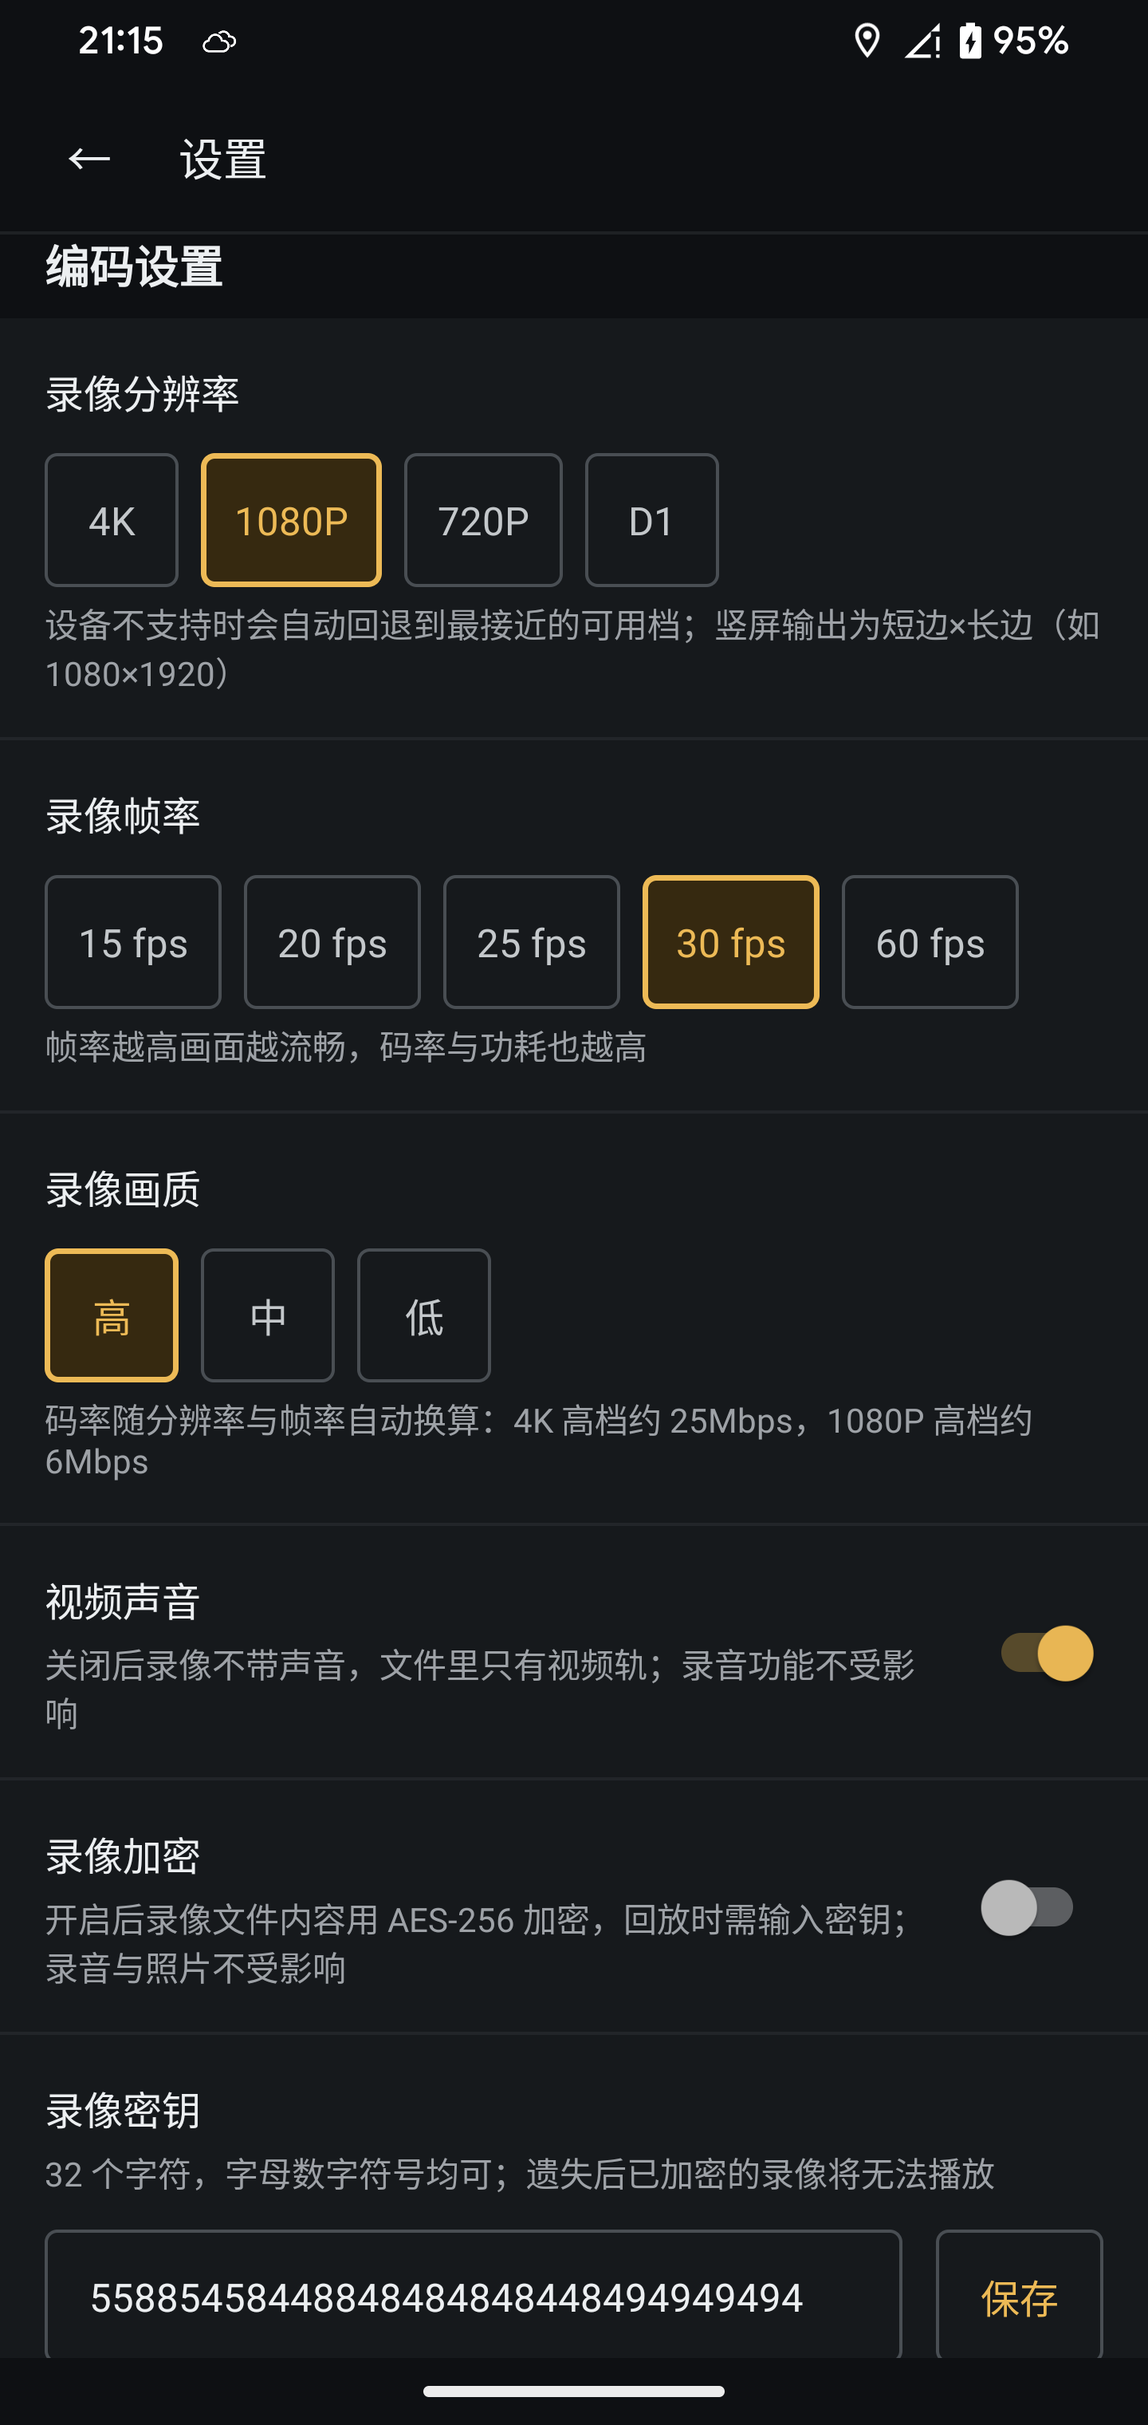
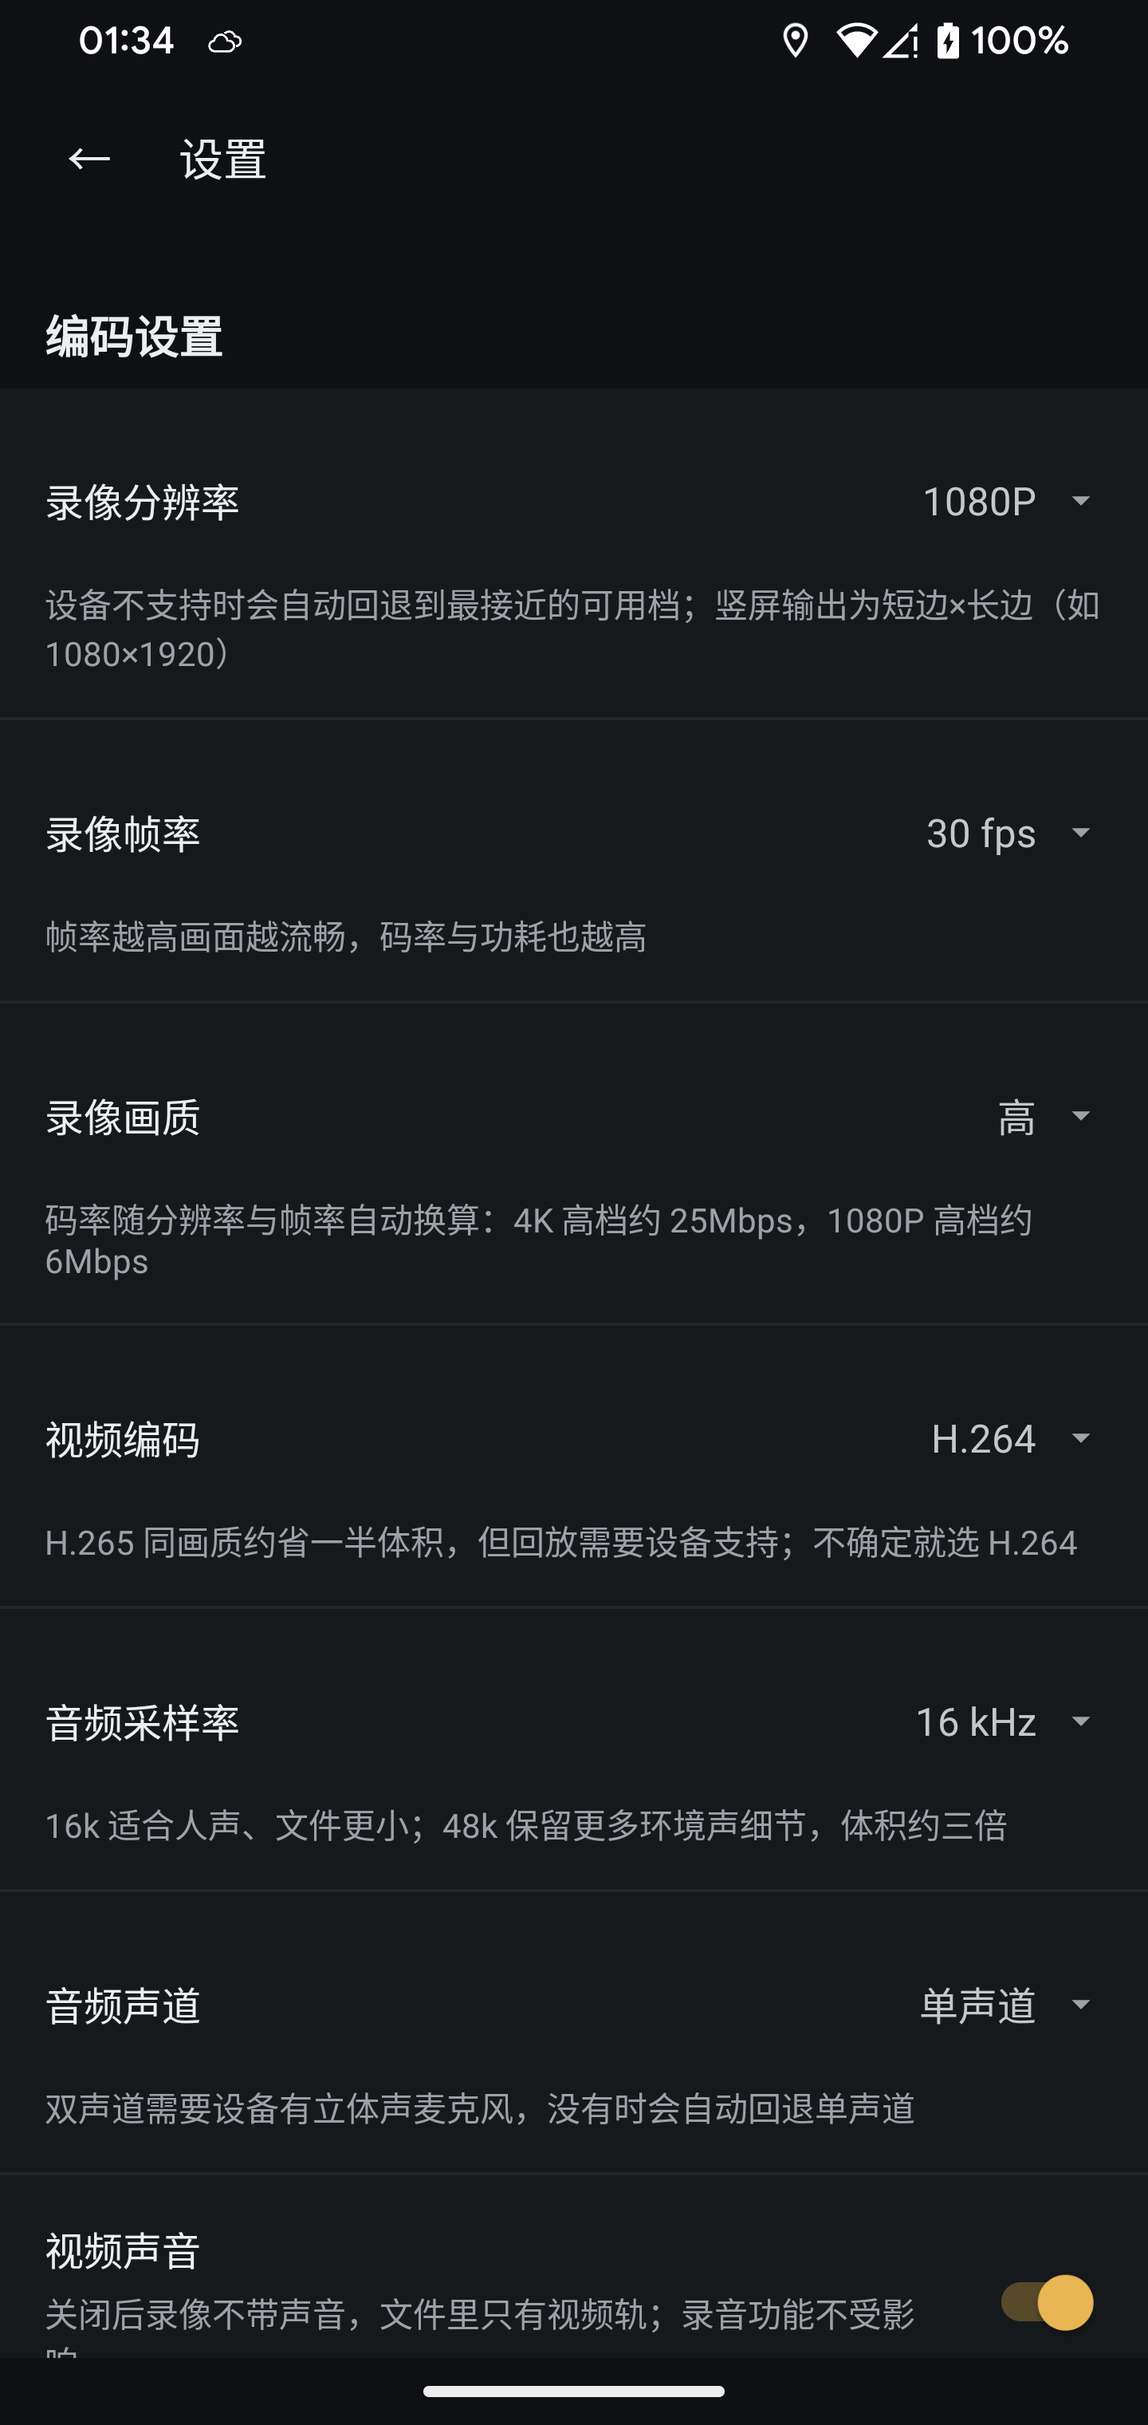
feat(settings): 所有平铺选项改为下拉框
- 标题居左、当前值 + ▾ 居右，点整行弹出候选列表，选中即回写
- bindDropdownRow() 就地改造：复用原标题 TextView、隐藏原容器，
  18 组选项的 XML 与各自持久化逻辑一行没改
- 去掉平铺分段按钮与两行两列网格，每行固定 48dp 可点高度
- 预录关闭时整行仍按原逻辑置灰不可点
- 更新设置页截图与 README 说明

diff --git a/app/src/main/java/com/dsh/bodycam/SettingsActivity.kt b/app/src/main/java/com/dsh/bodycam/SettingsActivity.kt
@@ -2,10 +2,16 @@ package com.dsh.bodycam
 
 import android.app.Activity
 import android.os.Bundle
+import android.text.TextUtils
+import android.util.TypedValue
+import android.view.Gravity
+import android.view.Menu
 import android.view.View
+import android.view.ViewGroup
 import android.widget.EditText
+import android.widget.ImageView
 import android.widget.LinearLayout
-import android.widget.RadioButton
+import android.widget.PopupMenu
 import android.widget.RadioGroup
 import android.widget.Switch
 import android.widget.TextView
@@ -191,16 +197,14 @@ class SettingsActivity : Activity() {
     private fun hintResFor(count: Int, normalRes: Int, unsupportedRes: Int): Int =
         if (count <= 1) unsupportedRes else normalRes
 
+    /** 每行下拉框本体，按原选项容器的 id 索引：updateSections 需要单独置灰某一行 */
+    private val dropdownRowOf = HashMap<Int, View>()
+
     /**
-     * 分段控件：往 [group] 里塞一排可选项。
+     * 分段选项：把「标题 + 一排按钮」就地改造成一行下拉框。
      *
-     * 设置页有六组同类选项（预录时长、补光、模式、质量、尺寸、连拍间隔/张数），
-     * 观感必须一致，所以统一在这里生成：48dp 可点高度、单格宽度随文字、
-     * 选中态由 bg_pre_record_option 的 state_checked 决定。
-     *
-     * @param options 每项的值（tag）与显示文字
-     * @param current 当前选中的值
-     * @param onPick 选中回调，只在该项真的变化时触发
+     * 改造成本集中在 [bindDropdownRow] 一处，设置页 18 组选项的 XML 与各自的
+     * 持久化逻辑都不用动——各 buildXxxOptions() 只是换了个渲染方式。
      */
     private fun <T> buildSegment(
         group: RadioGroup,
@@ -208,39 +212,119 @@ class SettingsActivity : Activity() {
         current: T,
         onPick: (T) -> Unit
     ) {
-        group.orientation = RadioGroup.HORIZONTAL
-        group.removeAllViews()
-        options.forEach { (value, label) ->
-            val rb = RadioButton(this).apply {
-                id = View.generateViewId()
-                text = label
-                textSize = 14f
-                setTextColor(resources.getColorStateList(R.color.pre_record_option_text, theme))
-                setButtonDrawable(null)
-                setBackgroundResource(R.drawable.bg_pre_record_option)
-                minHeight = resources.getDimensionPixelSize(R.dimen.touch_target)
-                minWidth = resources.getDimensionPixelSize(R.dimen.touch_target)
-                gravity = android.view.Gravity.CENTER
-                setPadding(
-                    resources.getDimensionPixelSize(R.dimen.space_sm),
-                    0,
-                    resources.getDimensionPixelSize(R.dimen.space_sm),
-                    0
-                )
-                isChecked = value == current
-                tag = value
-            }
-            val lp = RadioGroup.LayoutParams(
-                RadioGroup.LayoutParams.WRAP_CONTENT,
-                RadioGroup.LayoutParams.WRAP_CONTENT
+        bindDropdownRow(
+            anchor = group,
+            labels = options.map { it.second },
+            selectedIndex = options.indexOfFirst { it.first == current },
+            onPick = { index -> onPick(options[index].first) }
+        )
+    }
+
+    /**
+     * 把 [anchor] 所在的那一行改造成下拉行：标题居左，当前值 + ▾ 居右。
+     *
+     * 标题就是布局里 anchor 前面那个 TextView，直接搬进新行复用（样式、文案不变）；
+     * 原选项容器设为 GONE，只作定位锚点。这样 XML 一行不用改，行内的说明文字
+     * 也仍然排在下拉行下面。
+     *
+     * @param labels        下拉项文案
+     * @param selectedIndex 当前值在 [labels] 中的下标（-1 表示没有匹配，显示空值）
+     * @param onPick        选中回调，参数为下标
+     */
+    private fun bindDropdownRow(
+        anchor: View,
+        labels: List<String>,
+        selectedIndex: Int,
+        onPick: (Int) -> Unit
+    ) {
+        val parent = anchor.parent as? ViewGroup ?: return
+        val anchorIndex = parent.indexOfChild(anchor)
+        val labelView = if (anchorIndex > 0) parent.getChildAt(anchorIndex - 1) as? TextView else null
+        // 标题原本的上下留白要跟着搬到新行（连拍那行的第二组带 marginTop）
+        val topMargin =
+            (labelView?.layoutParams as? ViewGroup.MarginLayoutParams)?.topMargin ?: 0
+
+        var current = selectedIndex
+
+        val valueView = TextView(this).apply {
+            text = labels.getOrElse(current) { "" }
+            setTextColor(getColor(R.color.ink_2))
+            setTextSize(
+                TypedValue.COMPLEX_UNIT_PX,
+                resources.getDimension(R.dimen.text_md)
             )
-            lp.marginEnd = resources.getDimensionPixelSize(R.dimen.space_xs)
-            group.addView(rb, lp)
+            gravity = Gravity.END or Gravity.CENTER_VERTICAL
+            maxLines = 1
+            ellipsize = TextUtils.TruncateAt.END
+            layoutParams = LinearLayout.LayoutParams(
+                0, LinearLayout.LayoutParams.WRAP_CONTENT, 1f
+            ).apply { marginEnd = resources.getDimensionPixelSize(R.dimen.space_xs) }
         }
-        group.setOnCheckedChangeListener { _, checkedId ->
-            val rb = findViewById<RadioButton>(checkedId) ?: return@setOnCheckedChangeListener
-            @Suppress("UNCHECKED_CAST")
-            onPick(rb.tag as T)
+
+        val arrowSize = resources.getDimensionPixelSize(R.dimen.space_md)
+        val arrow = ImageView(this).apply {
+            setImageResource(R.drawable.ic_arrow_drop_down)
+            layoutParams = LinearLayout.LayoutParams(arrowSize, arrowSize)
+            // 纯装饰，读屏时应与整行合并朗读
+            importantForAccessibility = View.IMPORTANT_FOR_ACCESSIBILITY_NO
+        }
+
+        val row = LinearLayout(this).apply {
+            orientation = LinearLayout.HORIZONTAL
+            gravity = Gravity.CENTER_VERTICAL
+            minimumHeight = resources.getDimensionPixelSize(R.dimen.touch_target)
+            isClickable = true
+            isFocusable = true
+        }
+        // 水波纹交给主题的 selectableItemBackground，不自己造 drawable
+        val ripple = TypedValue()
+        if (theme.resolveAttribute(android.R.attr.selectableItemBackground, ripple, true)) {
+            row.setBackgroundResource(ripple.resourceId)
+        }
+
+        if (labelView != null) {
+            parent.removeView(labelView)
+            row.addView(
+                labelView,
+                LinearLayout.LayoutParams(
+                    LinearLayout.LayoutParams.WRAP_CONTENT,
+                    LinearLayout.LayoutParams.WRAP_CONTENT
+                )
+            )
+        }
+        row.addView(valueView)
+        row.addView(arrow)
+
+        parent.addView(
+            row,
+            if (labelView != null) anchorIndex - 1 else anchorIndex,
+            LinearLayout.LayoutParams(
+                LinearLayout.LayoutParams.MATCH_PARENT,
+                LinearLayout.LayoutParams.WRAP_CONTENT
+            ).apply { this.topMargin = topMargin }
+        )
+        anchor.visibility = View.GONE
+        dropdownRowOf[anchor.id] = row
+
+        row.setOnClickListener {
+            val popup = PopupMenu(this, row)
+            labels.forEachIndexed { index, label ->
+                popup.menu.add(Menu.NONE, index, index, label).apply {
+                    isCheckable = true
+                    isChecked = index == current
+                }
+            }
+            popup.menu.setGroupCheckable(Menu.NONE, true, true)
+            popup.setOnMenuItemClickListener { item ->
+                val index = item.itemId
+                if (index in labels.indices) {
+                    current = index
+                    valueView.text = labels[index]
+                    onPick(index)
+                }
+                true
+            }
+            popup.show()
         }
     }
 
@@ -360,9 +444,8 @@ class SettingsActivity : Activity() {
     /**
      * 拍照尺寸：1280×720 / 1920×1080 / 2560×1440 / 3840×2160（标 M 数）。
      *
-     * 四档标签较长，一行放不下四个，所以排成两列两行、每格等宽。
-     * 行内用 LinearLayout 分权重，因此不能用 RadioGroup（它只认直接子项，
-     * 嵌套一层就失去互斥），选中态自己维护。
+     * 四档文案较长，原来排成两列两行的网格；现在统一收进一行下拉框，
+     * 当前尺寸显示在标题右边，点开再选。
      */
     private fun buildPhotoSizeOptions() {
         val sizes = AppConfig.photoSizeOptions()
@@ -374,83 +457,8 @@ class SettingsActivity : Activity() {
                 w, h, Math.round(w.toLong() * h / 1_000_000.0).toInt()
             )
         }
-        // 四档标签较长，一行放不下四个，改成两列两行
-        buildOptionGrid(llPhotoSize, labels, current, columns = 2) { index ->
+        bindDropdownRow(llPhotoSize, labels, current) { index ->
             SettingsStore.setPhotoSizeIndex(this, index)
-        }
-    }
-
-    /**
-     * 把一组选项按网格排进 [container]：每行 [columns] 格、每格等宽。
-     *
-     * 用于标签较长的档位（拍照尺寸、分段时长）：排成一行会被压扁变形。
-     * 不能用 RadioGroup 做容器——它只认直接子项，嵌套一层的按钮就失去互斥，
-     * 所以选中态在这里自己维护。
-     *
-     * 末行不满格时补一个透明占位（如 5 档 3 列 → 3+2，第二行右侧留白），
-     * 否则剩下两格按权重摊满整行，会比上一行宽、边缘对不齐。
-     */
-    private fun buildOptionGrid(
-        container: LinearLayout,
-        labels: List<String>,
-        current: Int,
-        columns: Int,
-        onPick: (Int) -> Unit
-    ) {
-        val buttons = mutableListOf<RadioButton>()
-        val gap = resources.getDimensionPixelSize(R.dimen.space_xs)
-
-        fun buildRow(start: Int): LinearLayout {
-            val line = LinearLayout(this).apply {
-                orientation = LinearLayout.HORIZONTAL
-                layoutParams = LinearLayout.LayoutParams(
-                    LinearLayout.LayoutParams.MATCH_PARENT,
-                    LinearLayout.LayoutParams.WRAP_CONTENT
-                ).apply { topMargin = gap }
-            }
-            for (slot in 0 until columns) {
-                val index = start + slot
-                val isLastSlot = slot == columns - 1
-                // 只在格与格之间留缝：末格加右边距会让同一行的格子宽度不等
-                val lp = LinearLayout.LayoutParams(0, LinearLayout.LayoutParams.WRAP_CONTENT, 1f)
-                if (!isLastSlot) lp.marginEnd = gap
-
-                if (index > labels.lastIndex) {
-                    // 占位撑住最后一列的宽度，高度 1px 不参与测量
-                    line.addView(View(this), lp.apply {
-                        height = 1
-                    })
-                    continue
-                }
-
-                val rb = RadioButton(this).apply {
-                    id = View.generateViewId()
-                    text = labels[index]
-                    textSize = 14f
-                    setTextColor(
-                        resources.getColorStateList(R.color.pre_record_option_text, theme)
-                    )
-                    setButtonDrawable(null)
-                    setBackgroundResource(R.drawable.bg_pre_record_option)
-                    minHeight = resources.getDimensionPixelSize(R.dimen.touch_target)
-                    gravity = android.view.Gravity.CENTER
-                    isChecked = index == current
-                    tag = index
-                }
-                rb.setOnClickListener {
-                    // 互斥：其余取消选中，再写入设置
-                    buttons.forEach { other -> other.isChecked = other === rb }
-                    onPick(index)
-                }
-                buttons += rb
-                line.addView(rb, lp)
-            }
-            return line
-        }
-
-        container.removeAllViews()
-        for (start in labels.indices step columns) {
-            container.addView(buildRow(start))
         }
     }
 
@@ -567,12 +575,11 @@ class SettingsActivity : Activity() {
         val segments = AppConfig.SEGMENT_MINUTE_OPTIONS.map {
             getString(R.string.settings_segment_fmt, it)
         }
-        // 5 档带「分钟」后缀，一行排不下会被压扁，改成每行 4 格、共 2 行。
+        // 5 档带「分钟」后缀，原先 4 格一行排两行；现在统一收进一行下拉框。
         // segmentMinutes 读的时候已把档位外的旧值归一成默认档，这里 indexOf 不会返回 -1
-        buildOptionGrid(
+        bindDropdownRow(
             llSegmentMinutes, segments,
-            AppConfig.SEGMENT_MINUTE_OPTIONS.indexOf(SettingsStore.segmentMinutes(this)),
-            columns = 4
+            AppConfig.SEGMENT_MINUTE_OPTIONS.indexOf(SettingsStore.segmentMinutes(this))
         ) { index ->
             SettingsStore.setSegmentMinutes(this, AppConfig.SEGMENT_MINUTE_OPTIONS[index])
         }
@@ -625,10 +632,9 @@ class SettingsActivity : Activity() {
         val segments = AppConfig.SEGMENT_MINUTE_OPTIONS.map {
             getString(R.string.settings_segment_fmt, it)
         }
-        buildOptionGrid(
+        bindDropdownRow(
             llAudioSegmentMinutes, segments,
-            AppConfig.SEGMENT_MINUTE_OPTIONS.indexOf(SettingsStore.audioSegmentMinutes(this)),
-            columns = 4
+            AppConfig.SEGMENT_MINUTE_OPTIONS.indexOf(SettingsStore.audioSegmentMinutes(this))
         ) { index ->
             SettingsStore.setAudioSegmentMinutes(this, AppConfig.SEGMENT_MINUTE_OPTIONS[index])
         }
@@ -652,10 +658,9 @@ class SettingsActivity : Activity() {
         )
         for ((corner, container) in corners) {
             val current = SettingsStore.watermarkField(this, corner)
-            buildOptionGrid(
+            bindDropdownRow(
                 container, labels,
-                WATERMARK_FIELD_IDS.indexOfFirst { it.first == current },
-                columns = 2
+                WATERMARK_FIELD_IDS.indexOfFirst { it.first == current }
             ) { index ->
                 SettingsStore.setWatermarkField(this, corner, WATERMARK_FIELD_IDS[index].first)
             }
@@ -684,10 +689,8 @@ class SettingsActivity : Activity() {
         val preOn = swPreRecord.isChecked
         durationSection.alpha = if (preOn) 1f else 0.4f
         durationSection.isEnabled = preOn
-        rgDuration.isEnabled = preOn
-        for (i in 0 until rgDuration.childCount) {
-            rgDuration.getChildAt(i).isEnabled = preOn
-        }
+        // 选项已收进下拉行：置灰要落在那一行上（RadioGroup 现在只是隐藏的定位锚点）
+        dropdownRowOf[R.id.rgDuration]?.isEnabled = preOn
 
         val burst = SettingsStore.photoMode(this) == AppConfig.PHOTO_MODE_BURST
         photoModeSummary.text = getString(

diff --git a/README.md b/README.md
@@ -601,10 +601,17 @@ btnIr.setOnClickListener {
 
 ### 尺寸选项的排布
 
-设置页把四档尺寸排成**两行两列**、每格等宽：`3840×2160 · 8M` 这类标签较长，
-一行放四个会被挤扁变形。行内用 `LinearLayout` 权重等分而不是 `RadioGroup`——
-后者只认直接子项，嵌套一层行容器就失去互斥，所以选中态手动维护。
-格间只在两格之间留缝（末格不加 `marginEnd`），否则两格宽度不等。
+设置页所有多档选项（录像分辨率/帧率/画质/编码、音频采样率/声道、预录与延录时长、
+分段时长、拍照质量/尺寸、水印四角……）统一收成**下拉框**：标题居左，当前值 + ▾ 居右，
+点整行弹出候选列表，选中后立刻回写并更新右侧文字。
+
+`SetingsActivity.bindDropdownRow()` 负责把布局里「标题 + 选项容器」就地改造成这种行：
+标题 TextView 直接搬进新行复用（样式文案不变），原选项容器设为 `GONE` 只作定位锚点，
+所以 18 组选项的 XML 一行没动，各自的持久化与联动逻辑也原样保留。
+
+> 早期版本是平铺的分段按钮（`RadioGroup` / 两行两列网格）。档位一多就占掉半屏，
+> 而且 `3840×2160 · 8M` 这类长标签会被挤扁。改成下拉后每行固定 48dp，
+> 一屏能放下更多设置项。
 
 ### 连拍
 
